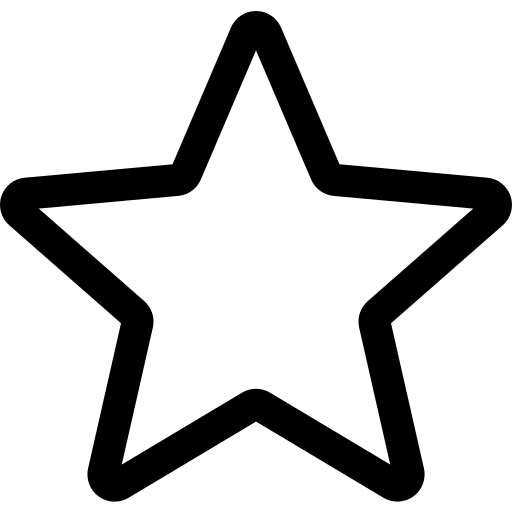
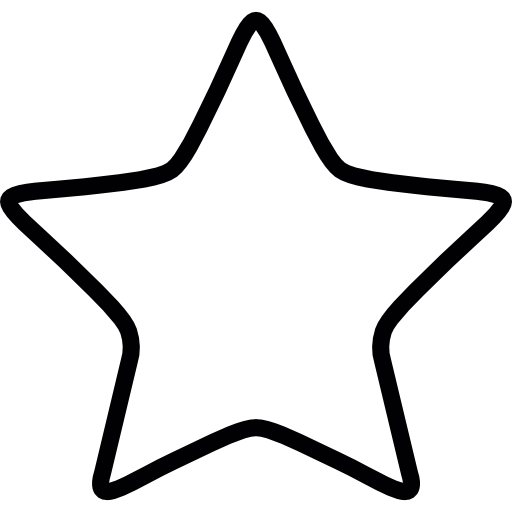
rating modal

Changed region(s): [[0.0, 0.0, 1.0, 0.9688], [0.75, 0.9688, 0.7812, 1.0], [0.2188, 0.9688, 0.25, 1.0]]

diff --git a/apps/web/app/components/ratingbutton.tsx b/apps/web/app/components/ratingbutton.tsx
@@ -1,0 +1,32 @@
+"use client"
+import {useState} from "react"
+import {Button} from "@repo/ui"
+export function RatingModal()
+{
+   
+    const[showModal , setShowModal] = useState(false)
+    return (
+        <div className="">
+            <div className="pt-10">
+          <Button size="md" variant="primary" text="Rate" onClick={()=>setShowModal(true)} />
+          </div>
+        {showModal && <div className="bg-accent h-100 w-100 rounded-xl outline-2 outline-background">
+           
+            <div className="p-5">
+                < textarea placeholder = "Review" className="font-Ubuntu  text-xl outline-2 outline-black rounded-lg"/>
+            </div>
+            <div className="flex  p-5 pt-30 gap-4">
+            <img className="h-15 w-15" src="/star.png" />
+            <img className="h-15 w-15" src="/star.png" />
+            <img className="h-15 w-15" src="/star.png" />
+            <img className="h-15 w-15" src="/star.png" />
+            <img className="h-15 w-15" src="/star.png" />
+            </div>
+            <div className="flex justify-center pt-5">
+                <Button size="md" text="Submit" variant="primary" />
+            </div>
+
+        </div>}
+        </div>
+    )
+}

diff --git a/apps/web/app/movie/[id]/page.tsx b/apps/web/app/movie/[id]/page.tsx
@@ -1,10 +1,12 @@
 import {tmdb,imageUrl} from "@/lib/api"
 import {Button} from "@repo/ui"
+import {RatingModal} from "../../components/ratingbutton"
 export default async function MoviePage({ params }: { params: Promise<{ id: string }> })
 {
     const { id } = await params
     const movie = await tmdb.getMovie(id)
     const similar = await tmdb.getSimilar(id)
+
     return (
         <div className="bg-background min-h-screen">
         <div className="bg-accent h-24 w-full" />
@@ -74,8 +76,8 @@ export default async function MoviePage({ params }: { params: Promise<{ id: stri
                 Tell us how did you like this?
               </p>
               </div>
-              <div className="px-30 pt-5">
-                <Button size="md" variant="primary" text="Rate" />
+              <div className="fixed inset-0 flex justify-center items-center">
+                  <RatingModal />
               </div>
             </div>
         </div>

diff --git a/packages/ui/src/button.tsx b/packages/ui/src/button.tsx
@@ -2,10 +2,11 @@
 interface buttonprops {
   size:"sm"|"md"|"lg",
   variant:"primary"|"secondary",
-  text:string
+  text:string,
+  onClick?:()=>void
 }
 const variantStyles = {
-  "primary":"bg-accent text-background rounded font-Ubuntu hover:text-black  ",
+  "primary":"bg-accent text-background rounded font-Ubuntu hover:text-black outline-2 outline-background ",
   "secondary":"bg-surface font-Ubuntu text-accent rounded-lg hover:bg-accent hover:text-black w-full"
 }
 const sizeStyles = {
@@ -18,7 +19,7 @@ export function Button(props:buttonprops)
 
   return (
     <div>
-      <button className={`${variantStyles[props.variant]} ${sizeStyles[props.size]}`}>{props.text}</button>
+      <button onClick={props.onClick} className={`${variantStyles[props.variant]} ${sizeStyles[props.size]}`}>{props.text}</button>
     </div>
   )
 }
